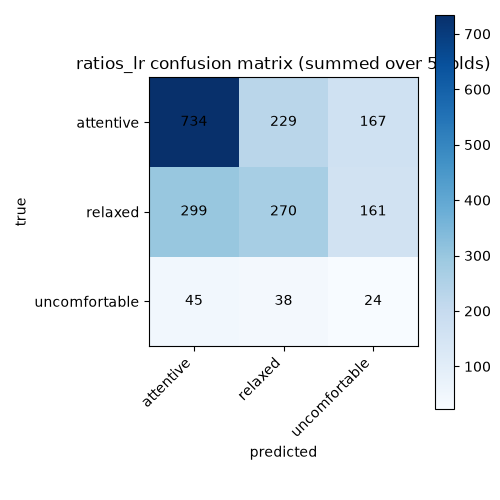
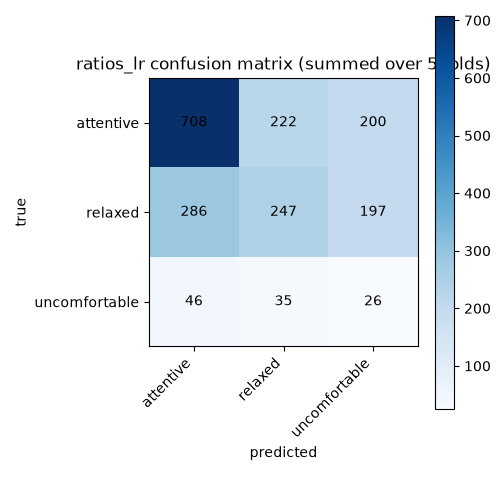
feat(e2): wire muzzle spread into model (1)'s training input
Direct user instruction, overriding the RSCH-2 grooming decision that
kept muzzle_spread_ratio as a descriptive-only readout. ratio_features()
now returns 3 features (eye aspect ratio, ear angle, muzzle spread)
instead of 2; ratios_lr.py, tests, baselines.py's README generation, and
experiments/e2/ artifacts updated to match. Q2 verdict is still NO MATCH.

diff --git a/scripts/baselines.py b/scripts/baselines.py
@@ -1,7 +1,7 @@
 """E2: run all three baseline models (ratios+LR, coords+LR, coords+MLP)
 over the identical stratified 5-fold split, write metrics/config per run
 directory, confusion-matrix and macro-F1-comparison plots, and the E2
-README. Answers RSCH-2 / Q2: does a learned model beat two geometric
+README. Answers RSCH-2 / Q2: does a learned model beat three geometric
 ratios fed to logistic regression?
 
 Usage: uv run python scripts/baselines.py
@@ -18,10 +18,8 @@ matplotlib.use("Agg")
 import matplotlib.pyplot as plt
 import numpy as np
 
-from catface.core.geometry import muzzle_spread_ratio
 from catface.ml import coords_lr, mlp, ratios_lr
 from catface.ml.features import load_raw_shapes
-from catface.ml.plausibility import LEFT_EYE, MUZZLE, RIGHT_EYE
 from catface.ml.splits import SPLITS_PATH, USABLE_CLASSES
 
 ROOT = Path(__file__).resolve().parent.parent
@@ -87,14 +85,14 @@ def q2_verdict(all_metrics: dict[str, dict]) -> tuple[bool, str]:
     if matches:
         reading = (
             "A match is a valid negative answer to Q2 under RSCH-2's stop condition, not a "
-            "failure: the coordinate-level model finds nothing past what the two hand-built "
+            "failure: the coordinate-level model finds nothing past what the three hand-built "
             "ratios already capture."
         )
     else:
         reading = (
-            "The MLP clears the two-ratio baseline by more than one fold's worth of its own "
+            "The MLP clears the three-ratio baseline by more than one fold's worth of its own "
             "noise, so Q2's answer here is that the learned model does find signal past eye "
-            "aperture and ear angle."
+            "aperture, ear angle, and muzzle spread."
         )
     sentence = (
         f"Model (1) ratios_lr scores mean macro F1 {m1:.3f}. Model (3) mlp scores "
@@ -132,21 +130,22 @@ def write_readme(
     all_metrics: dict[str, dict],
     config: dict,
     input_counts: dict[str, int],
-    spread_stats: tuple[float, float],
 ) -> None:
     _matches, verdict_sentence = q2_verdict(all_metrics)
-    spread_mean, spread_std = spread_stats
 
     lines = [
         "# experiments/e2 — baselines",
         "",
         "## What this is",
         ("RSCH-2 asks Q2: does a learned model beat two geometric ratios (eye aperture, ear "
-        "angle) fed to logistic regression? This run trains three baseline models on "
-        "cat-emotions-3, plausible rows only, the three usable classes (attentive, relaxed, "
-        "uncomfortable), on identical stratified 5-fold splits with balanced class weights. "
-        "Produced by `uv run python scripts/make_splits.py` then "
-        "`uv run python scripts/baselines.py`."),
+        "angle) fed to logistic regression? That was the original framing at grooming. Per "
+        "direct user instruction after grooming (2026-09-19), model (1) below was extended "
+        "to a third geometric feature, muzzle spread (`muzzle_spread_ratio`), so it no longer "
+        "matches Q2's original two-ratio framing exactly -- see `docs/backlog.md` RSCH-2. "
+        "This run trains three baseline models on cat-emotions-3, plausible rows only, the "
+        "three usable classes (attentive, relaxed, uncomfortable), on identical stratified "
+        "5-fold splits with balanced class weights. Produced by "
+        "`uv run python scripts/make_splits.py` then `uv run python scripts/baselines.py`."),
         "",
         "## Input",
         f"Rows: {sum(input_counts.values())}. Per-class counts:",
@@ -175,15 +174,6 @@ def write_readme(
         "## Q2 verdict",
         verdict_sentence,
         "",
-        "## Extra readout",
-        (f"`muzzle_spread_ratio` (max pairwise distance among the 22 MUZZLE points, divided "
-        f"by inter-ocular distance) over the {sum(input_counts.values())} input rows: mean "
-        f"{spread_mean:.3f}, std {spread_std:.3f}. This is descriptive only. None of the "
-        "three baselines above use it as a model input; model (1) stays exactly eye aperture "
-        "plus ear angle, per Q2 as posed. It is a geometry-only stand-in for whisker-pad "
-        "spread, not a validated \"tension\" measure. See `docs/backlog.md` RSCH-2 grooming "
-        "notes and `src/catface/core/geometry.py:muzzle_spread_ratio`."),
-        "",
         "## Citations",
         ("- CatFLW (landmark scheme, Finka et al.) and the Finka landmark scheme: see "
         "`docs/MODEL_REPORT.md` Citations."),
@@ -192,8 +182,7 @@ def write_readme(
         "(angles, distance ratios, area ratios by action unit) over cat facial landmarks. "
         "It reports that ear-position and orbital-tightening descriptors gave the smallest "
         "prediction error of the set, external validation that eye aperture and ear angle "
-        "make a reasonable pair to baseline against here, not a requirement to add features "
-        "beyond Q2's stated two."),
+        "make a reasonable pair to baseline against here."),
         "",
     ]
 
@@ -233,19 +222,10 @@ def main(argv: list[str]) -> None:
     }
     (RUN_DIR / "config.json").write_text(json.dumps(config, indent=2))
 
-    raw_shapes, label, _split = load_raw_shapes()
+    _raw_shapes, label, _split = load_raw_shapes()
     input_counts = label.value_counts().reindex(USABLE_CLASSES).to_dict()
-    spreads = np.array(
-        [
-            muzzle_spread_ratio(
-                shape, MUZZLE, shape[list(LEFT_EYE)].mean(axis=0), shape[list(RIGHT_EYE)].mean(axis=0)
-            )
-            for shape in raw_shapes
-        ]
-    )
-    print(f"muzzle_spread_ratio: mean={spreads.mean():.3f} std={spreads.std():.3f} (extra readout, not a model input)")
 
-    write_readme(all_metrics, config, input_counts, (float(spreads.mean()), float(spreads.std())))
+    write_readme(all_metrics, config, input_counts)
     print(f"wrote {RUN_DIR / 'README.md'}")
 
 

diff --git a/src/catface/ml/features.py b/src/catface/ml/features.py
@@ -1,7 +1,8 @@
 """Feature builders for E2's three baseline models: ratio features (eye
-aspect ratio + ear angle) for model (1), Procrustes-aligned flattened
-coordinates for models (2) and (3). Shared here so all three models train
-on identical rows, labels, and splits rather than each re-deriving them.
+aspect ratio, ear angle, muzzle spread) for model (1), Procrustes-aligned
+flattened coordinates for models (2) and (3). Shared here so all three
+models train on identical rows, labels, and splits rather than each
+re-deriving them.
 """
 
 from pathlib import Path
@@ -11,13 +12,18 @@ import numpy as np
 import pandas as pd
 from sklearn.preprocessing import LabelEncoder
 
-from catface.core.geometry import ear_angle, eye_aspect_ratio, generalized_procrustes
-from catface.ml.plausibility import LEFT_EAR, LEFT_EYE, RIGHT_EAR, RIGHT_EYE
+from catface.core.geometry import (
+    ear_angle,
+    eye_aspect_ratio,
+    generalized_procrustes,
+    muzzle_spread_ratio,
+)
+from catface.ml.plausibility import LEFT_EAR, LEFT_EYE, MUZZLE, RIGHT_EAR, RIGHT_EYE
 from catface.ml.splits import CACHE_PATH, load_splits_cache
 
 
 class Features(NamedTuple):
-    ratio_X: np.ndarray  # (N, 2)
+    ratio_X: np.ndarray  # (N, 3)
     coord_X: np.ndarray  # (N, 96)
     y: np.ndarray  # (N,) int-encoded label
     split: np.ndarray  # (N,) fold index 0-4
@@ -46,11 +52,11 @@ def load_raw_shapes() -> tuple[np.ndarray, pd.Series, np.ndarray]:
 
 
 def ratio_features(raw_shapes: np.ndarray) -> np.ndarray:
-    """(N, 2): mean(eye_aspect_ratio) and mean(ear_angle) across left/right,
-    computed directly on raw (unaligned) landmarks -- both are already
-    scale/rotation-derived ratios, not raw coordinates, so no Procrustes
-    alignment is needed first."""
-    out = np.zeros((len(raw_shapes), 2))
+    """(N, 3): mean(eye_aspect_ratio) and mean(ear_angle) across left/right,
+    plus muzzle_spread_ratio, computed directly on raw (unaligned) landmarks
+    -- all three are already scale/rotation-derived ratios, not raw
+    coordinates, so no Procrustes alignment is needed first."""
+    out = np.zeros((len(raw_shapes), 3))
     for i, shape in enumerate(raw_shapes):
         left_eye_center = shape[list(LEFT_EYE)].mean(axis=0)
         right_eye_center = shape[list(RIGHT_EYE)].mean(axis=0)
@@ -61,7 +67,8 @@ def ratio_features(raw_shapes: np.ndarray) -> np.ndarray:
             ear_angle(shape, LEFT_EAR, left_eye_center, right_eye_center)
             + ear_angle(shape, RIGHT_EAR, left_eye_center, right_eye_center)
         ) / 2
-        out[i] = (aspect_ratio, angle)
+        spread = muzzle_spread_ratio(shape, MUZZLE, left_eye_center, right_eye_center)
+        out[i] = (aspect_ratio, angle, spread)
     return out
 
 

diff --git a/src/catface/ml/ratios_lr.py b/src/catface/ml/ratios_lr.py
@@ -1,5 +1,6 @@
-"""Model (1): logistic regression on the two geometric ratios (eye aspect
-ratio, ear angle) -- the Q2 baseline E2 tests a learned model against.
+"""Model (1): logistic regression on three geometric ratios (eye aspect
+ratio, ear angle, muzzle spread) -- the Q2 baseline E2 tests a learned
+model against.
 """
 
 from sklearn.linear_model import LogisticRegression
@@ -17,5 +18,5 @@ def run() -> dict:
     metrics = cv.cross_validate(features.ratio_X, features.y, features.split, build_model)
     metrics["labels"] = features.classes
     metrics["model"] = "ratios_lr"
-    metrics["n_features"] = 2
+    metrics["n_features"] = 3
     return metrics

diff --git a/tests/test_baselines.py b/tests/test_baselines.py
@@ -44,7 +44,7 @@ def _synthetic_shapes(n: int) -> np.ndarray:
 
 def test_ratio_features_shape_dtype():
     out = ratio_features(_synthetic_shapes(5))
-    assert out.shape == (5, 2)
+    assert out.shape == (5, 3)
     assert out.dtype == np.float64
 
 

diff --git a/docs/backlog.md b/docs/backlog.md
@@ -144,6 +144,8 @@ aperture, ear angle) fed to logistic regression?
 - **Muzzle-spread readout:** ship a third derived-geometry function, `muzzle_spread_ratio(shape, muzzle_indices, left_eye_center, right_eye_center) -> float`, in `core/geometry.py` alongside the two required ones. It's the same category as eye aperture and ear rotation — a formula, no learning, no labels — and `docs/PLAN_RESEARCH.md` (around lines 46-48) already names whisker-pad spread as computable from the lower-face points, while excluding a *tension* feature specifically because "tension has no label source anywhere." This ships the spread, not the tension: defined purely geometrically as the single farthest-apart pair among the 22 `MUZZLE` points (`src/catface/ml/plausibility.py`), found by max pairwise distance rather than a named whisker-pad index pair, divided by inter-ocular distance. It's defined this way because neither CatFLW's GitHub repo nor its arXiv paper (2305.04232) publish an index-to-anatomy map for `MUZZLE`'s 22 points — the group is defined only by exclusion (nose, whiskers, and mouth lumped together) — so no code can name "this index is the left whisker pad," and max-pairwise-distance is a defensible stand-in since whisker pads are anatomically the widest bilateral points on the lower face. Two hard constraints follow: it is **not** part of Q2's required two-ratio baseline for model (1) — model (1) stays exactly eye aperture + ear angle, per the question as posed — and it is **not** called "tension" anywhere in code or docs, because there is still no label for what "tension" would mean; call it what it measures, a spread.
 - **Citation:** `docs/MODEL_REPORT.md`'s Citations section already names the CatFLW paper and the Finka landmark scheme. Add one more at E2: the feline pain-assessment paper (Scientific Reports, https://www.nature.com/articles/s41598-023-49031-2), which uses 35 geometric descriptors — angles, distance ratios, area ratios grouped by action unit — over cat facial landmarks, and reports that ear-position and orbital-tightening descriptors gave the smallest prediction error of the set. This belongs in `experiments/e2/README.md` and in `docs/MODEL_REPORT.md`'s Citations section as external validation that eye aperture and ear angle are a reasonable pair to baseline against, not as a requirement to add features beyond Q2's stated two.
 
+**Addendum (direct user instruction, 2026-09-19, overrides the muzzle-spread grooming note above):** the user asked, after grooming, to wire `muzzle_spread_ratio` into model (1)'s training input rather than keeping it as a descriptive-only readout. `ratio_features()` in `src/catface/ml/features.py` now returns 3 features (eye aspect ratio, ear angle, muzzle spread) instead of 2; `ratios_lr.py`'s `n_features` is 3; `tests/test_baselines.py`'s shape assertion and `scripts/baselines.py`'s README generation (the "Extra readout" section is removed, since the readout is now a real model input) were updated to match. This makes model (1) diverge from Q2's original "two geometric ratios" framing as literally posed — `docs/PLAN_RESEARCH.md`'s Q2 text is intentionally left unchanged; this note is the record of the divergence. `experiments/e2/` was regenerated; see the updated result comment below.
+
 **Required controls:** identical splits across all three models, 5-fold,
 macro F1 (not accuracy alone), confusion matrix per model
 
@@ -158,6 +160,8 @@ macro F1 (not accuracy alone), confusion matrix per model
 answer to Q2, not a failure.
 
 **Comment (ML Engineer, 2026-09-19):** implemented and run, `experiments/e2/`. 5-fold macro F1: ratios_lr (model 1, eye aperture + ear angle) 0.391 ± 0.051, coords_lr (model 2, 96 Procrustes-aligned coordinates) 0.419 ± 0.026, mlp (model 3, same input as model 2) 0.411 ± 0.018. Q2 verdict: NO MATCH — model (1) and model (3) differ by 0.019 macro F1, which is more than model (3)'s own 0.018 CV std, so the learned model does find signal past the two hand-built ratios. Full per-fold numbers, confusion matrices, and the muzzle-spread extra readout are in `experiments/e2/README.md`; per-model `metrics.json`/config/git sha are in `experiments/e2/<name>/` and `experiments/e2/config.json`. Not closing this issue — that's Research QA's call.
+
+**Comment (ML Engineer, 2026-09-19, addendum re-run):** re-ran after wiring `muzzle_spread_ratio` into model (1) per the addendum above. Updated 5-fold macro F1: ratios_lr (model 1, now eye aperture + ear angle + muzzle spread, `n_features=3`) 0.382 ± 0.018, coords_lr (model 2, unchanged) 0.419 ± 0.026, mlp (model 3, unchanged) 0.411 ± 0.018. Q2 verdict is still NO MATCH — model (1) and model (3) now differ by 0.029 macro F1, versus model (3)'s own 0.018 CV std — the gap widened slightly rather than closing, so adding the third ratio did not change Q2's answer. `uv run pytest tests/` is green, 24/24. `experiments/e2/` (README, config, `ratios_lr/metrics.json`, `plots/macro_f1_comparison.png`, `plots/ratios_lr_confusion_matrix.png`) regenerated; `data/cache/splits.csv` untouched, splits are unaffected by this change. Not closing this issue — that's Research QA's call.
 
 ---
 

diff --git a/experiments/e2/README.md b/experiments/e2/README.md
@@ -1,7 +1,7 @@
 # experiments/e2 — baselines
 
 ## What this is
-RSCH-2 asks Q2: does a learned model beat two geometric ratios (eye aperture, ear angle) fed to logistic regression? This run trains three baseline models on cat-emotions-3, plausible rows only, the three usable classes (attentive, relaxed, uncomfortable), on identical stratified 5-fold splits with balanced class weights. Produced by `uv run python scripts/make_splits.py` then `uv run python scripts/baselines.py`.
+RSCH-2 asks Q2: does a learned model beat two geometric ratios (eye aperture, ear angle) fed to logistic regression? That was the original framing at grooming. Per direct user instruction after grooming (2026-09-19), model (1) below was extended to a third geometric feature, muzzle spread (`muzzle_spread_ratio`), so it no longer matches Q2's original two-ratio framing exactly -- see `docs/backlog.md` RSCH-2. This run trains three baseline models on cat-emotions-3, plausible rows only, the three usable classes (attentive, relaxed, uncomfortable), on identical stratified 5-fold splits with balanced class weights. Produced by `uv run python scripts/make_splits.py` then `uv run python scripts/baselines.py`.
 
 ## Input
 Rows: 1967. Per-class counts:
@@ -13,24 +13,24 @@ Split recipe: `StratifiedKFold(n_splits=5, shuffle=True, random_state=0)` over `
 ## Results
 
 ### ratios_lr
-`n_features` = 2.
+`n_features` = 3.
 
 | fold | macro F1 |
 |---|---|
-| 0 | 0.298 |
-| 1 | 0.435 |
-| 2 | 0.437 |
-| 3 | 0.399 |
-| 4 | 0.388 |
-| **mean** | **0.391 +/- 0.051** |
+| 0 | 0.350 |
+| 1 | 0.388 |
+| 2 | 0.404 |
+| 3 | 0.391 |
+| 4 | 0.378 |
+| **mean** | **0.382 +/- 0.018** |
 
 Confusion matrix (rows = true, columns = predicted, summed over 5 folds):
 
 | true \ pred | attentive | relaxed | uncomfortable |
 |---|---|---|---|
-| attentive | 734 | 229 | 167 |
-| relaxed | 299 | 270 | 161 |
-| uncomfortable | 45 | 38 | 24 |
+| attentive | 708 | 222 | 200 |
+| relaxed | 286 | 247 | 197 |
+| uncomfortable | 46 | 35 | 26 |
 
 Plot: `plots/ratios_lr_confusion_matrix.png`.
 
@@ -86,12 +86,9 @@ Plot: `plots/mlp_confusion_matrix.png`.
 - [x] Balanced class weights: `class_weight="balanced"` (LR models), `nn.CrossEntropyLoss(weight=...)` computed via `sklearn.utils.class_weight.compute_class_weight("balanced", ...)` (MLP).
 
 ## Q2 verdict
-Model (1) ratios_lr scores mean macro F1 0.391. Model (3) mlp scores 0.411, std 0.018 across folds. The gap between them is 0.019, beyond one CV std of model (3)'s macro F1: **NO MATCH**. The MLP clears the two-ratio baseline by more than one fold's worth of its own noise, so Q2's answer here is that the learned model does find signal past eye aperture and ear angle.
-
-## Extra readout
-`muzzle_spread_ratio` (max pairwise distance among the 22 MUZZLE points, divided by inter-ocular distance) over the 1967 input rows: mean 1.239, std 0.103. This is descriptive only. None of the three baselines above use it as a model input; model (1) stays exactly eye aperture plus ear angle, per Q2 as posed. It is a geometry-only stand-in for whisker-pad spread, not a validated "tension" measure. See `docs/backlog.md` RSCH-2 grooming notes and `src/catface/core/geometry.py:muzzle_spread_ratio`.
+Model (1) ratios_lr scores mean macro F1 0.382. Model (3) mlp scores 0.411, std 0.018 across folds. The gap between them is 0.029, beyond one CV std of model (3)'s macro F1: **NO MATCH**. The MLP clears the three-ratio baseline by more than one fold's worth of its own noise, so Q2's answer here is that the learned model does find signal past eye aperture, ear angle, and muzzle spread.
 
 ## Citations
 - CatFLW (landmark scheme, Finka et al.) and the Finka landmark scheme: see `docs/MODEL_REPORT.md` Citations.
-- Feline pain-assessment descriptors, Scientific Reports, https://www.nature.com/articles/s41598-023-49031-2: 35 geometric descriptors (angles, distance ratios, area ratios by action unit) over cat facial landmarks. It reports that ear-position and orbital-tightening descriptors gave the smallest prediction error of the set, external validation that eye aperture and ear angle make a reasonable pair to baseline against here, not a requirement to add features beyond Q2's stated two.
+- Feline pain-assessment descriptors, Scientific Reports, https://www.nature.com/articles/s41598-023-49031-2: 35 geometric descriptors (angles, distance ratios, area ratios by action unit) over cat facial landmarks. It reports that ear-position and orbital-tightening descriptors gave the smallest prediction error of the set, external validation that eye aperture and ear angle make a reasonable pair to baseline against here.
 
